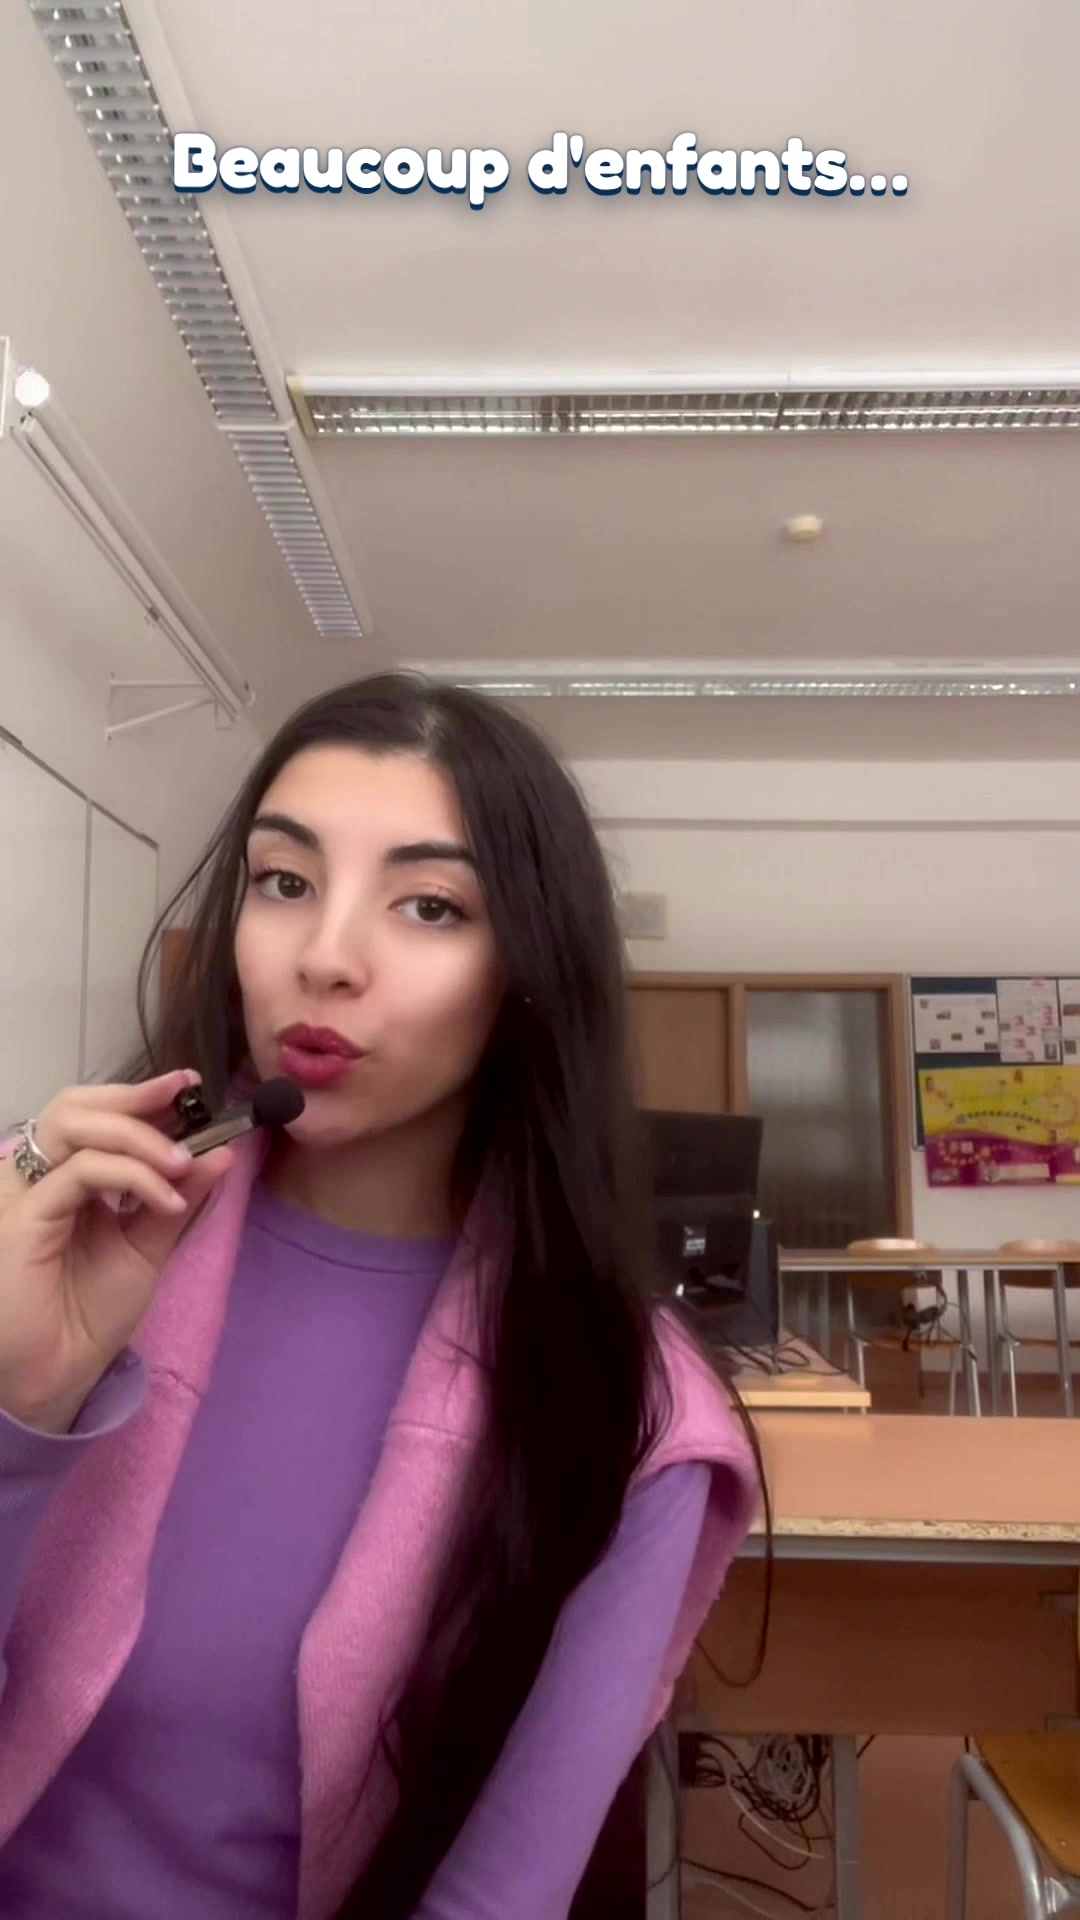
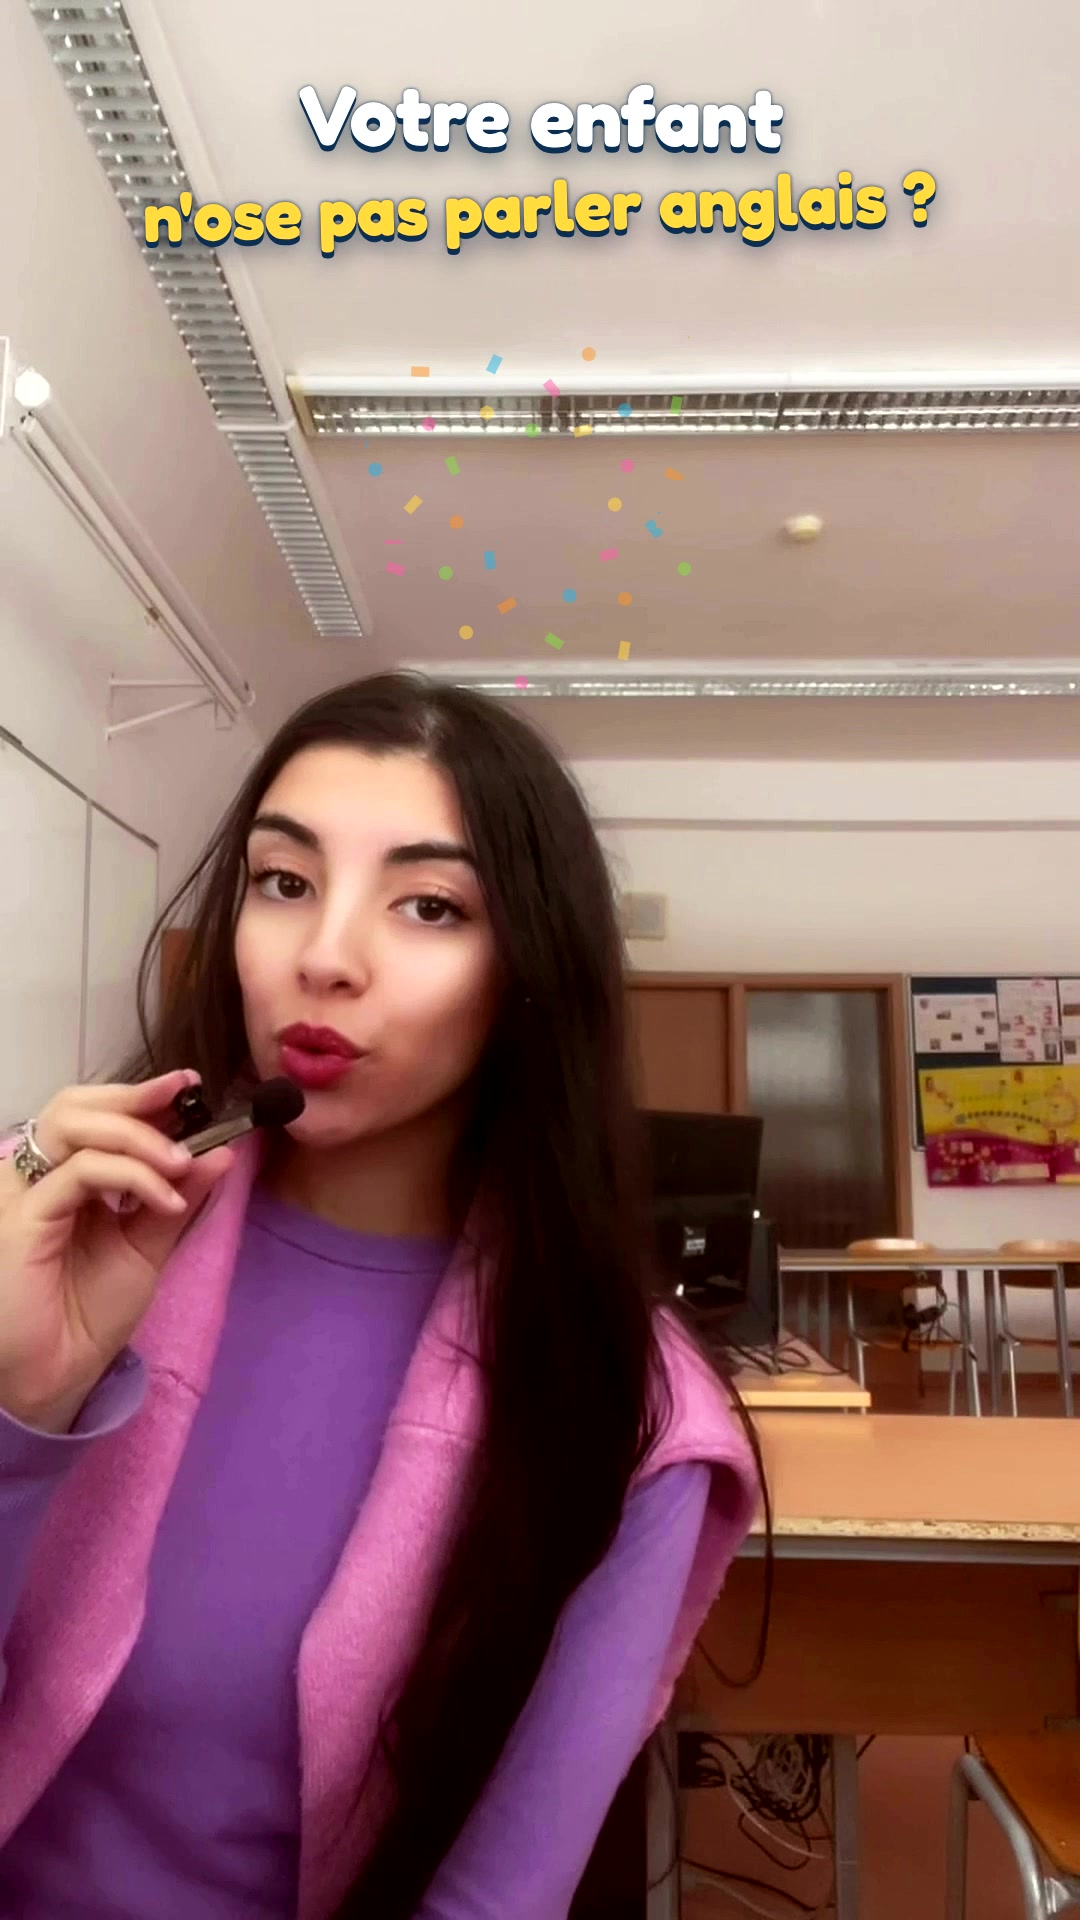
short-kidstudio2: cleaned voice (declip, EQ, compression), colour grade, stronger hook and sign-up end card, 720p light export
Claude-Session: https://claude.ai/code/session_01AxhibgRmBs7v8bGQfSccih

diff --git a/video-agent/edits/short-kidstudio2/source/mg.html b/video-agent/edits/short-kidstudio2/source/mg.html
@@ -32,8 +32,9 @@ const C = { navy: '#14365C', blue: '#1FA2E0', green: '#7CC242', yellow: '#FFC93C
 const ic = n => `<img src="icons/${n}.png">`;
 const E = [
   // A hook
-  ['big', 0.2, 3.75, 540, 110, { t: "Beaucoup d'enfants…", s: 76 }],
-  ['chip', 2.0, 3.75, 540, 250, { t: "n'osent pas parler", c: 'red', i: 'speaking-head', x: true, xat: 2.8 }],
+  ['big', 0.2, 3.75, 540, 60, { t: 'Votre enfant', s: 84 }],
+  ['big', 0.55, 3.75, 540, 165, { t: "n'ose pas parler anglais ?", s: 70, col: C.yellow }],
+  ['img', 1.6, 3.75, 540, 290, { i: 'speaking-head', w: 150 }],
   // B pourquoi
   ['big', 3.95, 6.9, 540, 80, { t: '?', s: 200, col: C.yellow, spin: 1 }],
   ['chip', 5.85, 6.9, 300, 380, { t: 'ni envie', c: 'grey', i: 'sleeping-face' }],
@@ -95,9 +96,9 @@ const E = [
   ['stamp', 78.05, 79.45, 540, 160, { t: 'INSCRIPTIONS OUVERTES' }],
   // O CTA
   ['logo', 79.4, 99, 540, 90, {}],
-  ['chip', 80.3, 99, 540, 400, { t: 'Inscription : lien en bio', c: 'yellow', i: 'link', ink: 1, cta: 1 }],
+  ['big', 80.25, 99, 540, 330, { t: 'Inscriptions ouvertes 🎉', s: 66, col: C.yellow }],
+  ['chip', 80.3, 99, 540, 440, { t: 'Inscription : lien en bio', c: 'yellow', i: 'link', ink: 1, cta: 1 }],
   ['img', 80.6, 82.0, 0, 0, { i: 'cursor', w: 110, cur: 1 }],
-  ['big', 81.85, 99, 540, 560, { t: 'Au revoir ! 👋', s: 64 }],
 ];
 // ---- build the DOM ----
 const st = $('stage'), EL = [];
@@ -124,7 +125,7 @@ function place(d, x, y) { d.style.left = (x - d.offsetWidth / 2) + 'px'; d.style
 // ---- particles ----
 const fx = $('fx').getContext('2d'), BURSTS = [];
 const COLS = [C.yellow, C.blue, C.green, C.pink, C.orange];
-[[2.85, 540, 300], [9.4, 540, 450], [15.8, 540, 280], [25.8, 540, 300], [32.4, 540, 300], [39.0, 540, 250], [45.2, 540, 420], [53.1, 540, 400], [62.1, 540, 450], [64.9, 540, 120], [69.7, 540, 520], [78.1, 540, 230], [81.1, 540, 460]].forEach(b => BURSTS.push(b));
+[[0.6, 540, 220], [2.85, 540, 300], [80.3, 540, 380], [9.4, 540, 450], [15.8, 540, 280], [25.8, 540, 300], [32.4, 540, 300], [39.0, 540, 250], [45.2, 540, 420], [53.1, 540, 400], [62.1, 540, 450], [64.9, 540, 120], [69.7, 540, 520], [78.1, 540, 230], [81.1, 540, 460]].forEach(b => BURSTS.push(b));
 function drawFx(t) { fx.clearRect(0, 0, 1080, 1920);
   for (const [t0, x, y] of BURSTS) { const u = t - t0; if (u < 0 || u > 1.2) continue;
     for (let i = 0; i < 30; i++) { const a = i / 30 * 6.283, v = 800 * (.45 + ((i * 37) % 11) / 16);
@@ -142,6 +143,7 @@ function draw(t) {
     let s = (.25 + .75 * pb) * (.6 + .4 * out), r = Math.sin(t * 2.2 + i) * 2, ty = Math.sin(t * 1.8 + i) * 6 - 30 * (1 - out), tx = 0;
     if (p.spin) r += (1 - q) * -200;
     if (type === 'stamp') { s = t - at < .18 ? 3 - 2 * ((t - at) / .18) : 1; r = 0; }
+    if (p.arrow) ty += Math.abs(Math.sin(t * 5)) * 26;
     if (p.fly) { tx = (1 - q) * -500; ty += (1 - q) * 200; r = -20; }
     if (p.cur) { const k = S(t - at, 7); tx = 1000 + (720 - 1000) * k; ty = 1900 + (470 - 1900) * k; d.style.left = '0px'; d.style.top = '0px'; s = t > 81.07 && t < 81.25 ? .85 : 1; r = 0; }
     if (p.cta) s *= 1 + .04 * Math.sin(t * 6) - (t > 81.07 && t < 81.3 ? .06 : 0);

diff --git a/video-agent/edits/short-kidstudio2/source/mg.tpl.html b/video-agent/edits/short-kidstudio2/source/mg.tpl.html
@@ -32,8 +32,9 @@ const C = { navy: '#14365C', blue: '#1FA2E0', green: '#7CC242', yellow: '#FFC93C
 const ic = n => `<img src="icons/${n}.png">`;
 const E = [
   // A hook
-  ['big', 0.2, 3.75, 540, 110, { t: "Beaucoup d'enfants…", s: 76 }],
-  ['chip', 2.0, 3.75, 540, 250, { t: "n'osent pas parler", c: 'red', i: 'speaking-head', x: true, xat: 2.8 }],
+  ['big', 0.2, 3.75, 540, 60, { t: 'Votre enfant', s: 84 }],
+  ['big', 0.55, 3.75, 540, 165, { t: "n'ose pas parler anglais ?", s: 70, col: C.yellow }],
+  ['img', 1.6, 3.75, 540, 290, { i: 'speaking-head', w: 150 }],
   // B pourquoi
   ['big', 3.95, 6.9, 540, 80, { t: '?', s: 200, col: C.yellow, spin: 1 }],
   ['chip', 5.85, 6.9, 300, 380, { t: 'ni envie', c: 'grey', i: 'sleeping-face' }],
@@ -95,9 +96,9 @@ const E = [
   ['stamp', 78.05, 79.45, 540, 160, { t: 'INSCRIPTIONS OUVERTES' }],
   // O CTA
   ['logo', 79.4, 99, 540, 90, {}],
-  ['chip', 80.3, 99, 540, 400, { t: 'Inscription : lien en bio', c: 'yellow', i: 'link', ink: 1, cta: 1 }],
+  ['big', 80.25, 99, 540, 330, { t: 'Inscriptions ouvertes 🎉', s: 66, col: C.yellow }],
+  ['chip', 80.3, 99, 540, 440, { t: 'Inscription : lien en bio', c: 'yellow', i: 'link', ink: 1, cta: 1 }],
   ['img', 80.6, 82.0, 0, 0, { i: 'cursor', w: 110, cur: 1 }],
-  ['big', 81.85, 99, 540, 560, { t: 'Au revoir ! 👋', s: 64 }],
 ];
 // ---- build the DOM ----
 const st = $('stage'), EL = [];
@@ -124,7 +125,7 @@ function place(d, x, y) { d.style.left = (x - d.offsetWidth / 2) + 'px'; d.style
 // ---- particles ----
 const fx = $('fx').getContext('2d'), BURSTS = [];
 const COLS = [C.yellow, C.blue, C.green, C.pink, C.orange];
-[[2.85, 540, 300], [9.4, 540, 450], [15.8, 540, 280], [25.8, 540, 300], [32.4, 540, 300], [39.0, 540, 250], [45.2, 540, 420], [53.1, 540, 400], [62.1, 540, 450], [64.9, 540, 120], [69.7, 540, 520], [78.1, 540, 230], [81.1, 540, 460]].forEach(b => BURSTS.push(b));
+[[0.6, 540, 220], [2.85, 540, 300], [80.3, 540, 380], [9.4, 540, 450], [15.8, 540, 280], [25.8, 540, 300], [32.4, 540, 300], [39.0, 540, 250], [45.2, 540, 420], [53.1, 540, 400], [62.1, 540, 450], [64.9, 540, 120], [69.7, 540, 520], [78.1, 540, 230], [81.1, 540, 460]].forEach(b => BURSTS.push(b));
 function drawFx(t) { fx.clearRect(0, 0, 1080, 1920);
   for (const [t0, x, y] of BURSTS) { const u = t - t0; if (u < 0 || u > 1.2) continue;
     for (let i = 0; i < 30; i++) { const a = i / 30 * 6.283, v = 800 * (.45 + ((i * 37) % 11) / 16);
@@ -142,6 +143,7 @@ function draw(t) {
     let s = (.25 + .75 * pb) * (.6 + .4 * out), r = Math.sin(t * 2.2 + i) * 2, ty = Math.sin(t * 1.8 + i) * 6 - 30 * (1 - out), tx = 0;
     if (p.spin) r += (1 - q) * -200;
     if (type === 'stamp') { s = t - at < .18 ? 3 - 2 * ((t - at) / .18) : 1; r = 0; }
+    if (p.arrow) ty += Math.abs(Math.sin(t * 5)) * 26;
     if (p.fly) { tx = (1 - q) * -500; ty += (1 - q) * 200; r = -20; }
     if (p.cur) { const k = S(t - at, 7); tx = 1000 + (720 - 1000) * k; ty = 1900 + (470 - 1900) * k; d.style.left = '0px'; d.style.top = '0px'; s = t > 81.07 && t < 81.25 ? .85 : 1; r = 0; }
     if (p.cta) s *= 1 + .04 * Math.sin(t * 6) - (t > 81.07 && t < 81.3 ? .06 : 0);
